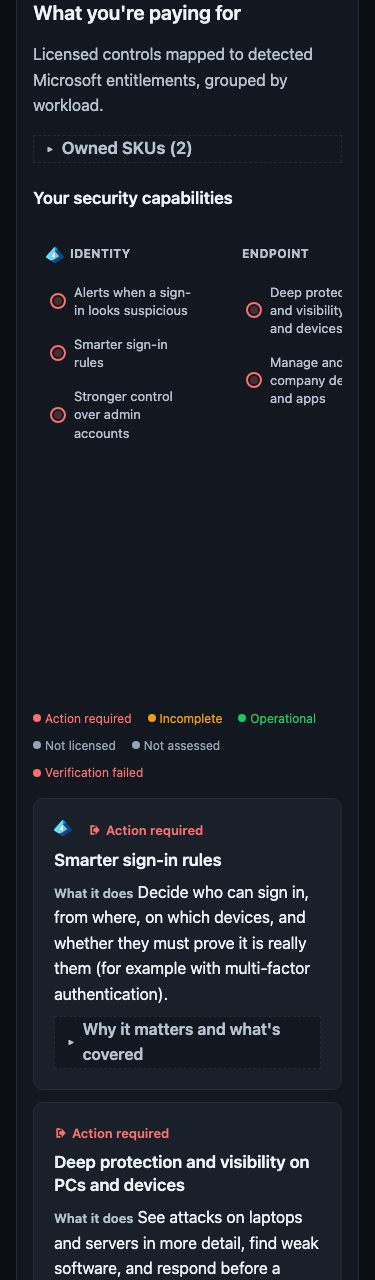
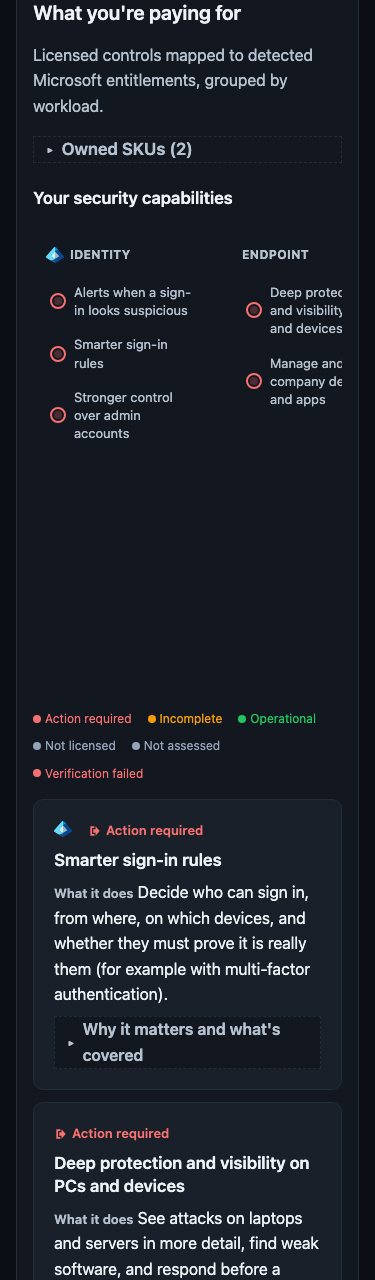
fix(report): purge dead hero CSS and regenerate sample report
Remove orphaned .top-actions/.top-action/.exposed-rail rules from the
single-file stylesheet and .opening-action rules from the app stylesheet
left over from the hero declutter. Rewire the stage-7 entrance animation
to the new single action anchor (bundle: [data-opening-stage=actions]
300ms @ 440ms; single-file: .hero-action rule), and update the
reduced-motion, forced-colors, and print lists accordingly.

Regenerate the committed sample report (html) and screenshots via
scripts/regenerate_report_assets.py: deterministic, design gate passes,
zero http(s) requests.

diff --git a/examples/sample-report/security-license-lens-report.html b/examples/sample-report/security-license-lens-report.html
@@ -99,14 +99,16 @@ body {
 
 [hidden] { display: none !important; }
 
-/* Masthead chrome: highest surface, strong rule, radius 0 (§4). */
+/* Masthead chrome: open on the canvas, radius 0 (§4). The header is
+   box-aligned with main (same 1160px border-box + 32px gutters) so the
+   masthead column matches the sections' 1096px content column. */
 header {
   max-width: 1160px;
   margin-block: 0 24px;
   margin-inline: auto;
   padding-inline: 32px;
-  background: var(--surface-4);
-  border: 1px solid var(--border-strong);
+  background: transparent;
+  border: 0;
   border-radius: 0;
 }
 
@@ -121,7 +123,7 @@ main {
 /* --------------------------------------------------------------------------
    §3. Typography — locked type scale, heading hierarchy h1 -> h2 -> h3.
    -------------------------------------------------------------------------- */
-h1 { font-size: 1.5rem; font-weight: 650; line-height: 1.25; }
+h1 { font-size: 2rem; font-weight: 650; line-height: 1.25; }
 h2 { font-size: 1.25rem; font-weight: 600; line-height: 1.3; }
 h3 { font-size: 1.06rem; font-weight: 600; line-height: 1.35; }
 
@@ -657,7 +659,7 @@ details.tech[open] > .tech-body { animation: fade-in 150ms ease-out both; }
 }
 .dist-item { display: inline-flex; align-items: center; gap: 6px; }
 
-/* Implication + top actions close the opening sequence. */
+/* Implication + the single action anchor close the opening sequence. */
 .implication {
   margin-block: 20px 0;
   font-size: 1rem;
@@ -666,15 +668,6 @@ details.tech[open] > .tech-body { animation: fade-in 150ms ease-out both; }
 }
 .posture-sentence { color: var(--text-2); margin-block: 8px 0; }
 
-.top-actions {
-  list-style: none;
-  margin-block: 20px 0;
-  padding: 0;
-  display: flex;
-  flex-direction: column;
-  gap: 8px;
-}
-.top-action { display: flex; flex-wrap: wrap; align-items: baseline; gap: 8px; }
 .effort-label {
   display: inline-block;
   padding: 2px 8px;
@@ -683,14 +676,6 @@ details.tech[open] > .tech-body { animation: fade-in 150ms ease-out both; }
   font-size: 0.75rem;
   color: var(--text-2);
 }
-
-/* Exposed rail: 3px action rail listing exposed / gap check titles. */
-.exposed-rail {
-  margin-block-start: 24px;
-  padding-inline-start: 16px;
-  border-inline-start: 3px solid var(--state-action);
-}
-.exposed-rail ul { margin: 4px 0 0; padding-inline-start: 1.2rem; }
 
 /* --------------------------------------------------------------------------
    §5E. Exploration — charts, search, filter groups, sort, counts, list,
@@ -1010,15 +995,39 @@ details.explore-row .finding-head h3 { font-size: 1.06rem; }
   font-size: 0.8125rem;
 }
 
-/* Table of contents (single-file §6). */
+/* Table of contents (single-file §6): a prominent segmented control —
+   the report's primary orientation affordance, not plain links. */
 .toc {
   display: flex;
   flex-wrap: wrap;
-  gap: 8px 20px;
-  padding-block: 8px 16px;
+  gap: 6px;
+  padding-block: 12px 16px;
   border-block-start: 1px solid var(--border);
 }
-.toc a { font-size: 0.8125rem; }
+.toc a {
+  display: inline-flex;
+  align-items: center;
+  min-height: 44px;
+  padding: 8px 14px;
+  border: 1px solid var(--border-strong);
+  border-radius: 999px;
+  background: var(--surface-2);
+  color: var(--text-2);
+  font-size: 0.875rem;
+  font-weight: 600;
+  line-height: 1.2;
+  text-decoration: none;
+}
+.toc a:hover {
+  color: var(--accent-hover);
+  border-color: var(--accent);
+}
+.toc a:first-child {
+  color: var(--text-1);
+  background: var(--surface-3);
+  border-color: var(--accent);
+  box-shadow: inset 0 0 0 1px var(--accent);
+}
 
 /* --------------------------------------------------------------------------
    Technical tables — radius 0, mono cells, scrollable at 640px.
@@ -1081,10 +1090,7 @@ body.revealed .dist-item:nth-child(2) { animation-delay: 320ms; }
 body.revealed .dist-item:nth-child(3) { animation-delay: 380ms; }
 body.revealed .dist-item:nth-child(4) { animation-delay: 440ms; }
 body.revealed .implication { animation-duration: 300ms; animation-delay: 380ms; }
-body.revealed .top-action { animation-duration: 300ms; }
-body.revealed .top-action:nth-child(1) { animation-delay: 540ms; }
-body.revealed .top-action:nth-child(2) { animation-delay: 620ms; }
-body.revealed .top-action:nth-child(3) { animation-delay: 700ms; }
+body.revealed .hero-action { animation-duration: 300ms; animation-delay: 440ms; }
 
 /* Stage 4a: radial gauge draw (700ms, delay 160ms). */
 body.revealed .radial-arc {
@@ -1556,6 +1562,28 @@ footer {
 .opening-meta code { color: var(--text-1); }
 .opening-tenant-id { color: var(--text-2); }
 
+/* Stage 7 → single path forward: one restrained action anchor into C. */
+.hero-action { margin-block: 20px 0 4px; }
+.hero-action a {
+  display: inline-flex;
+  align-items: center;
+  min-height: 44px;
+  padding: 10px 18px;
+  border: 1px solid var(--accent);
+  border-radius: 999px;
+  background: var(--surface-1);
+  color: var(--accent);
+  font-size: 0.875rem;
+  font-weight: 600;
+  line-height: 1.2;
+  text-decoration: none;
+}
+.hero-action a:hover {
+  color: var(--accent-hover);
+  border-color: var(--accent-hover);
+  background: var(--surface-2);
+}
+
 /* Below-fold reveals: B, C, and Findings fade + 6px rise on first entry,
    one-shot
    IntersectionObserver (single-file only; the bundle app drives its own). */
@@ -1640,8 +1668,8 @@ body.revealed .reveal-target.is-revealed {
     
     <nav class="toc" aria-label="Sections">
       <a href="#section-a">Where you stand</a>
-      <a href="#section-b">What you're paying for</a>
       <a href="#section-c">What matters most</a>
+      <a href="#section-b">What you're paying for</a>
       <a href="#section-findings">Findings</a>
     </nav>
   </header>
@@ -1729,16 +1757,74 @@ body.revealed .reveal-target.is-revealed {
 
         <p class="implication opening-stage">5 of your 6 priority capabilities need attention.</p><p class="posture-sentence">5 of 6 priority capabilities still need attention</p>
 
-        <ol class="top-actions"><li class="top-action opening-stage">
-            <a href="#move-1">Restrict user consent so only admins approve non-trivial permissions</a><span class="effort-label">~a few hours</span></li><li class="top-action opening-stage">
-            <a href="#move-2">Disable SMS, Voice, and Email OTP authentication methods</a><span class="effort-label">~a few hours</span></li><li class="top-action opening-stage">
-            <a href="#move-3">Create two cloud-only, Global Administrator emergency accounts excluded from Conditional Access, declare them as break-glass principals in…</a><span class="effort-label">~a few hours</span></li></ol><div class="exposed-rail">
-          <p class="micro-label">Exposed or action required</p>
-          <ul><li>Require strong sign-in for powerful admin roles</li><li>Some paid device-management seats may not be enrolled</li><li>Review apps with broad permissions for everyone</li></ul><p class="caption">and 39 more</p></div></div>
+        
+        <p class="hero-action opening-stage">
+          <a href="#section-c">View prioritized actions</a>
+        </p>
+      </div>
     </section>
 
     
-    <section id="section-b" class="reveal-target" style="--reveal-delay: 0ms">
+    
+    <section id="section-c" class="reveal-target" style="--reveal-delay: 0ms">
+      <p class="micro-label section-kicker">Priorities</p>
+      <h2>What matters most</h2>
+      <p class="section-help">
+        Ranked by security impact, evidence confidence, and estimated effort.
+      </p>
+      <ol class="move-list">
+        
+        <li class="move-item move-item--lead" id="move-1">
+          <span class="move-index mono">01</span>
+          <div class="move-body">
+            <div class="move-head">
+              <strong class="move-title">Restrict user consent so only admins approve non-trivial permissions</strong>
+              <span class="effort-label">~a few hours</span>
+            </div>
+            <p class="move-why"><strong>Why:</strong> Users can still approve app permissions themselves, which is a common path for consent phishing.</p>
+            <p class="move-action"><strong>Action:</strong> Restrict user consent so only admins approve non-trivial permissions.</p>
+            <p class="move-ids">Checks: <span class="mono">id-app-user-consent-restricted</span></p>
+            <p class="move-link"><a href="https://entra.microsoft.com/#view/Microsoft_AAD_UsersAndTenants/UserSettingsMenuBlade">Open the admin page</a></p>
+          </div>
+        </li>
+        
+        <li class="move-item" id="move-2">
+          <span class="move-index mono">02</span>
+          <div class="move-body">
+            <div class="move-head">
+              <strong class="move-title">Disable SMS, Voice, and Email OTP authentication methods</strong>
+              <span class="effort-label">~a few hours</span>
+            </div>
+            <p class="move-why"><strong>Why:</strong> SMS, voice, or email one-time codes are still allowed — these are the easiest multi-factor methods for attackers to abuse.</p>
+            <p class="move-action"><strong>Action:</strong> Disable SMS, Voice, and Email OTP authentication methods.</p>
+            <p class="move-ids">Checks: <span class="mono">id-auth-weak-methods-disabled</span></p>
+            <p class="move-link"><a href="https://entra.microsoft.com/#view/Microsoft_AAD_IAM/AuthenticationMethodsMenuBlade">Open the admin page</a></p>
+          </div>
+        </li>
+        
+        <li class="move-item" id="move-3">
+          <span class="move-index mono">03</span>
+          <div class="move-body">
+            <div class="move-head">
+              <strong class="move-title">Create two cloud-only, Global Administrator emergency accounts excluded from Conditional Access, declare them as break-glass principals in…</strong>
+              <span class="effort-label">~a few hours</span>
+            </div>
+            <p class="move-why"><strong>Why:</strong> We could not confirm a dedicated emergency admin account. Without one, an outage or lockout can lock you out of your own tenant.</p>
+            <p class="move-action"><strong>Action:</strong> Create two cloud-only, Global Administrator emergency accounts excluded from Conditional Access, declare them as break-glass principals in your configured settings, and remove any other unexplained exclusions.</p>
+            <p class="move-ids">Checks: <span class="mono">id-break-glass-exclusion</span></p>
+            <p class="move-link"><a href="https://entra.microsoft.com/#view/Microsoft_AAD_UsersAndTenants/UserManagementMenuBlade/~/AllUsers">Open the admin page</a></p>
+          </div>
+        </li>
+        
+      </ol>
+      <p class="move-note">
+        Effort is a rough guide, not a quote.
+      </p>
+    </section>
+    
+
+    
+    <section id="section-b" class="reveal-target" style="--reveal-delay: 40ms">
       <p class="micro-label section-kicker">Entitlements</p>
       <h2>What you're paying for</h2>
       <p class="section-help">
@@ -2715,65 +2801,6 @@ body.revealed .reveal-target.is-revealed {
     </details>
   </article></div>
     </section>
-
-    
-    
-    <section id="section-c" class="reveal-target" style="--reveal-delay: 40ms">
-      <p class="micro-label section-kicker">Priorities</p>
-      <h2>What matters most</h2>
-      <p class="section-help">
-        Ranked by security impact, evidence confidence, and estimated effort.
-      </p>
-      <ol class="move-list">
-        
-        <li class="move-item move-item--lead" id="move-1">
-          <span class="move-index mono">01</span>
-          <div class="move-body">
-            <div class="move-head">
-              <strong class="move-title">Restrict user consent so only admins approve non-trivial permissions</strong>
-              <span class="effort-label">~a few hours</span>
-            </div>
-            <p class="move-why"><strong>Why:</strong> Users can still approve app permissions themselves, which is a common path for consent phishing.</p>
-            <p class="move-action"><strong>Action:</strong> Restrict user consent so only admins approve non-trivial permissions.</p>
-            <p class="move-ids">Checks: <span class="mono">id-app-user-consent-restricted</span></p>
-            <p class="move-link"><a href="https://entra.microsoft.com/#view/Microsoft_AAD_UsersAndTenants/UserSettingsMenuBlade">Open the admin page</a></p>
-          </div>
-        </li>
-        
-        <li class="move-item" id="move-2">
-          <span class="move-index mono">02</span>
-          <div class="move-body">
-            <div class="move-head">
-              <strong class="move-title">Disable SMS, Voice, and Email OTP authentication methods</strong>
-              <span class="effort-label">~a few hours</span>
-            </div>
-            <p class="move-why"><strong>Why:</strong> SMS, voice, or email one-time codes are still allowed — these are the easiest multi-factor methods for attackers to abuse.</p>
-            <p class="move-action"><strong>Action:</strong> Disable SMS, Voice, and Email OTP authentication methods.</p>
-            <p class="move-ids">Checks: <span class="mono">id-auth-weak-methods-disabled</span></p>
-            <p class="move-link"><a href="https://entra.microsoft.com/#view/Microsoft_AAD_IAM/AuthenticationMethodsMenuBlade">Open the admin page</a></p>
-          </div>
-        </li>
-        
-        <li class="move-item" id="move-3">
-          <span class="move-index mono">03</span>
-          <div class="move-body">
-            <div class="move-head">
-              <strong class="move-title">Create two cloud-only, Global Administrator emergency accounts excluded from Conditional Access, declare them as break-glass principals in…</strong>
-              <span class="effort-label">~a few hours</span>
-            </div>
-            <p class="move-why"><strong>Why:</strong> We could not confirm a dedicated emergency admin account. Without one, an outage or lockout can lock you out of your own tenant.</p>
-            <p class="move-action"><strong>Action:</strong> Create two cloud-only, Global Administrator emergency accounts excluded from Conditional Access, declare them as break-glass principals in your configured settings, and remove any other unexplained exclusions.</p>
-            <p class="move-ids">Checks: <span class="mono">id-break-glass-exclusion</span></p>
-            <p class="move-link"><a href="https://entra.microsoft.com/#view/Microsoft_AAD_UsersAndTenants/UserManagementMenuBlade/~/AllUsers">Open the admin page</a></p>
-          </div>
-        </li>
-        
-      </ol>
-      <p class="move-note">
-        Effort is a rough guide, not a quote.
-      </p>
-    </section>
-    
 
     
     <section id="section-findings" class="reveal-target" style="--reveal-delay: 80ms">

diff --git a/templates/report_app/v2/app.css b/templates/report_app/v2/app.css
@@ -1221,10 +1221,10 @@ body.revealed [data-opening-stage="implication"] {
   opacity: 0;
   animation: opening-rise 300ms ease-out 380ms both;
 }
-/* Stage 7: top actions fade + rise, 300ms, 80ms stagger (inline). */
-body.revealed .opening-action {
+/* Stage 7: single action anchor fade + rise, 300ms, delay 440ms. */
+body.revealed [data-opening-stage="actions"] {
   opacity: 0;
-  animation: opening-rise 300ms ease-out both;
+  animation: opening-rise 300ms ease-out 440ms both;
 }
 
 /* Constellation resolve: nodes transition neutral -> status color column by
@@ -1261,7 +1261,6 @@ main section.is-revealed {
   [data-opening-stage],
   .dist-item,
   .dist-seg,
-  .opening-action,
   main section.is-pending-reveal {
     opacity: 1 !important;
     transform: none !important;
@@ -1287,7 +1286,6 @@ main section.is-revealed {
   .move-item,
   .finding-row,
   .chart,
-  .opening-action,
   details.tech {
     background: Canvas;
     border-color: CanvasText;
@@ -1385,8 +1383,7 @@ main section.is-revealed {
   main section.is-pending-reveal,
   [data-opening-stage],
   .dist-item,
-  .dist-seg,
-  .opening-action {
+  .dist-seg {
     opacity: 1 !important;
     transform: none !important;
     animation: none !important;
@@ -1402,7 +1399,7 @@ main section.is-revealed {
     box-shadow: none !important;
   }
 
-  .opening-action { border-color: var(--print-border) !important; }
+  .hero-action a { border-color: var(--print-border) !important; }
 
   /* Radial gauge is replaced by its accessible description line. */
   .posture-gauge__viz { display: none; }
